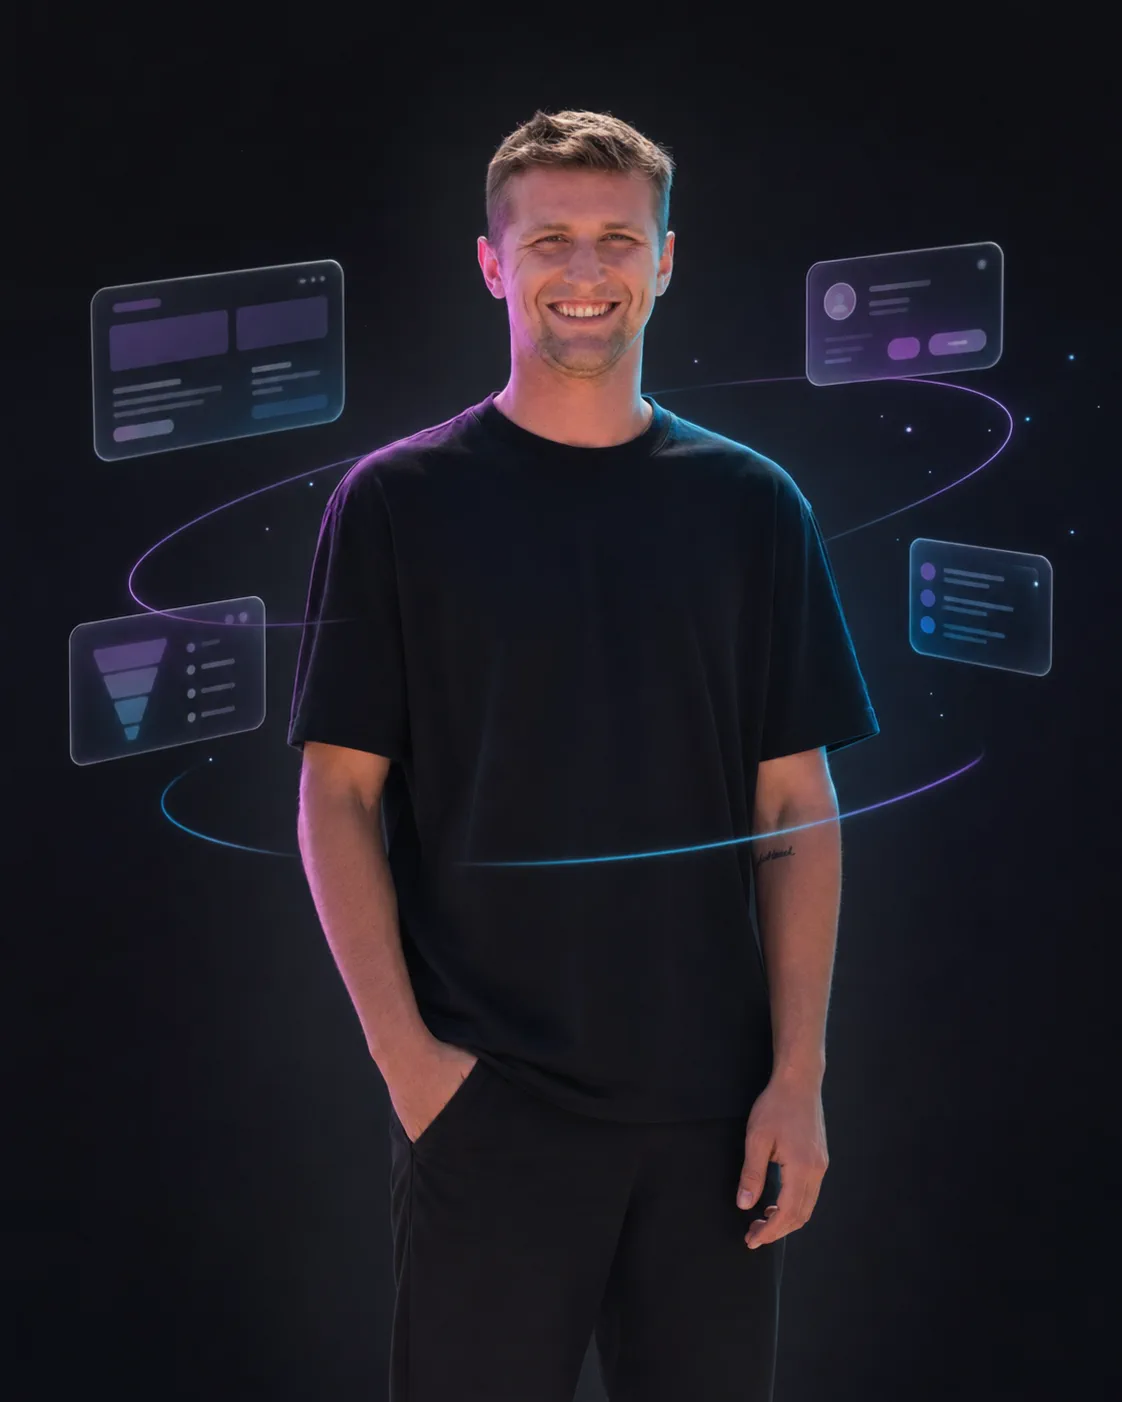
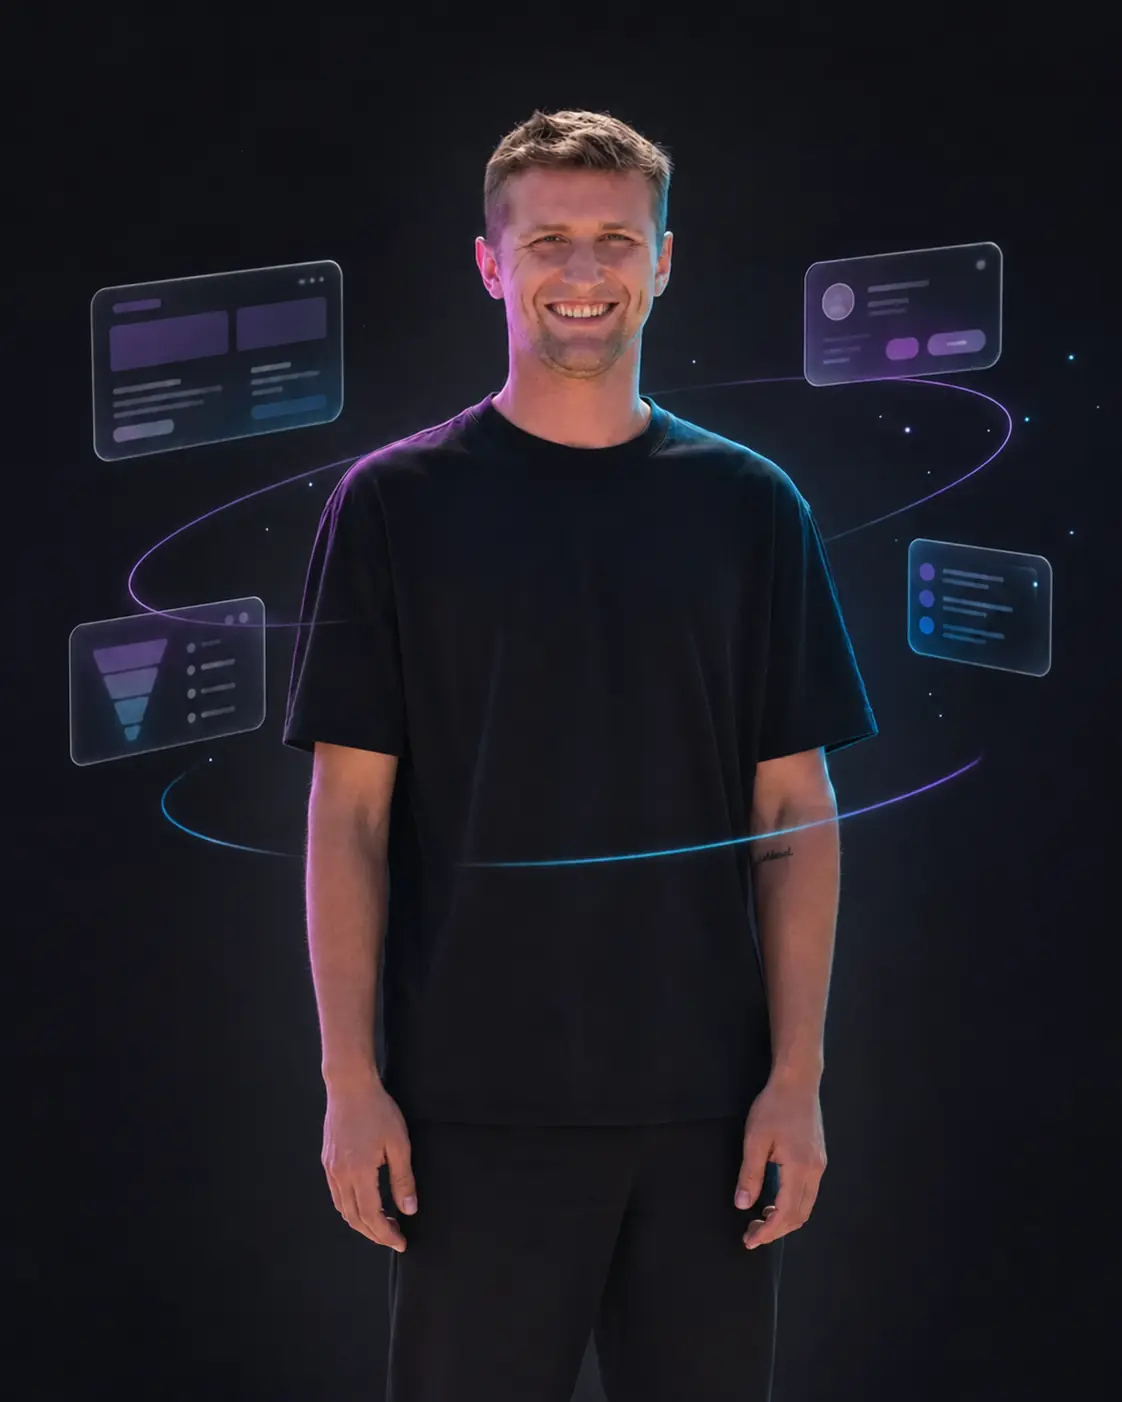
Refine Digital Orbit portrait pose

diff --git a/src/styles.css b/src/styles.css
@@ -283,7 +283,7 @@ body::before { content: ""; position: fixed; inset: 0; pointer-events: none; opa
 .about-orbit::after { z-index: 4; inset: 0; background: linear-gradient(180deg, rgba(5,5,8,.16), transparent 22%, transparent 70%, rgba(5,5,8,.48)); filter: none; pointer-events: none; }
 .about-orbit img { z-index: 1; width: 100%; max-width: none; height: 100%; object-fit: cover; object-position: center center; transform: translate3d(var(--portrait-x), var(--portrait-y), 0) scale(1.035); transition: transform .5s cubic-bezier(.22,1,.36,1); filter: contrast(1.02) saturate(.96); }
 .about-orbit-ring { position: absolute; z-index: 2; left: 4%; top: 37%; width: 92%; height: 24%; border: 1px solid rgba(92,206,255,.34); border-inline-color: rgba(194,76,255,.6); border-radius: 50%; transform: rotate(-13deg); box-shadow: 0 0 28px rgba(130,64,255,.13), inset 0 0 22px rgba(92,206,255,.08); animation: about-orbit-pulse 5.8s ease-in-out infinite; pointer-events: none; }
-.about-orbit-ui { position: absolute; z-index: 3; inset: 0; transform: translate3d(var(--orbit-x), var(--orbit-y), 28px); transition: transform .45s cubic-bezier(.22,1,.36,1); pointer-events: none; }
+.about-orbit-ui { position: absolute; z-index: 5; inset: 0; transform: translate3d(var(--orbit-x), var(--orbit-y), 28px); transition: transform .45s cubic-bezier(.22,1,.36,1); pointer-events: none; }
 .about-orbit-card { position: absolute; min-width: 142px; border: 1px solid rgba(255,255,255,.2); border-radius: 12px; padding: 11px 13px; display: flex; align-items: center; gap: 10px; background: linear-gradient(135deg, rgba(32,27,52,.74), rgba(9,24,34,.64)); box-shadow: 0 16px 40px rgba(0,0,0,.28), inset 0 1px 0 rgba(255,255,255,.08); backdrop-filter: blur(12px); -webkit-backdrop-filter: blur(12px); animation: about-card-float 6.8s ease-in-out infinite; }
 .about-orbit-card > i { width: 9px; height: 9px; flex: 0 0 auto; border: 1px solid var(--purple); box-shadow: 2px 2px 0 var(--cyan), 0 0 15px rgba(92,206,255,.38); }
 .about-orbit-card > span { min-width: 0; display: grid; gap: 3px; }
